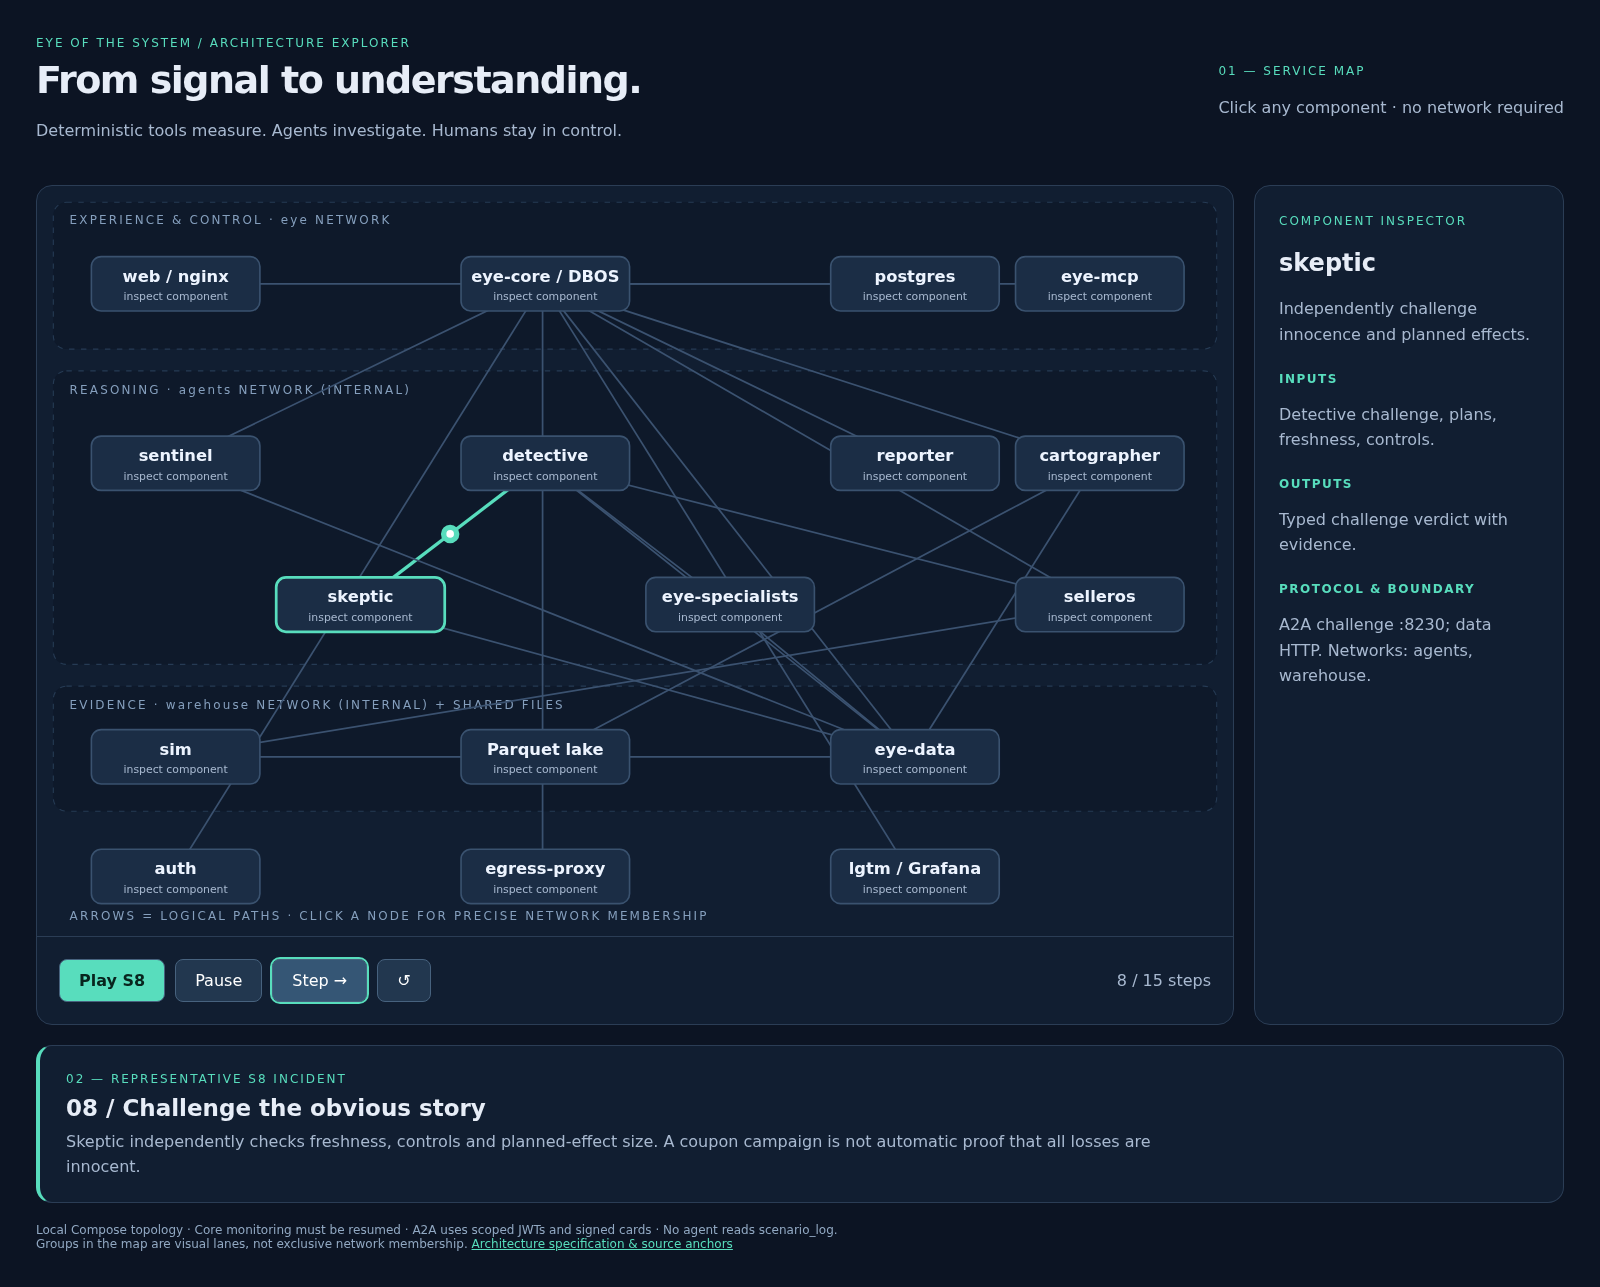
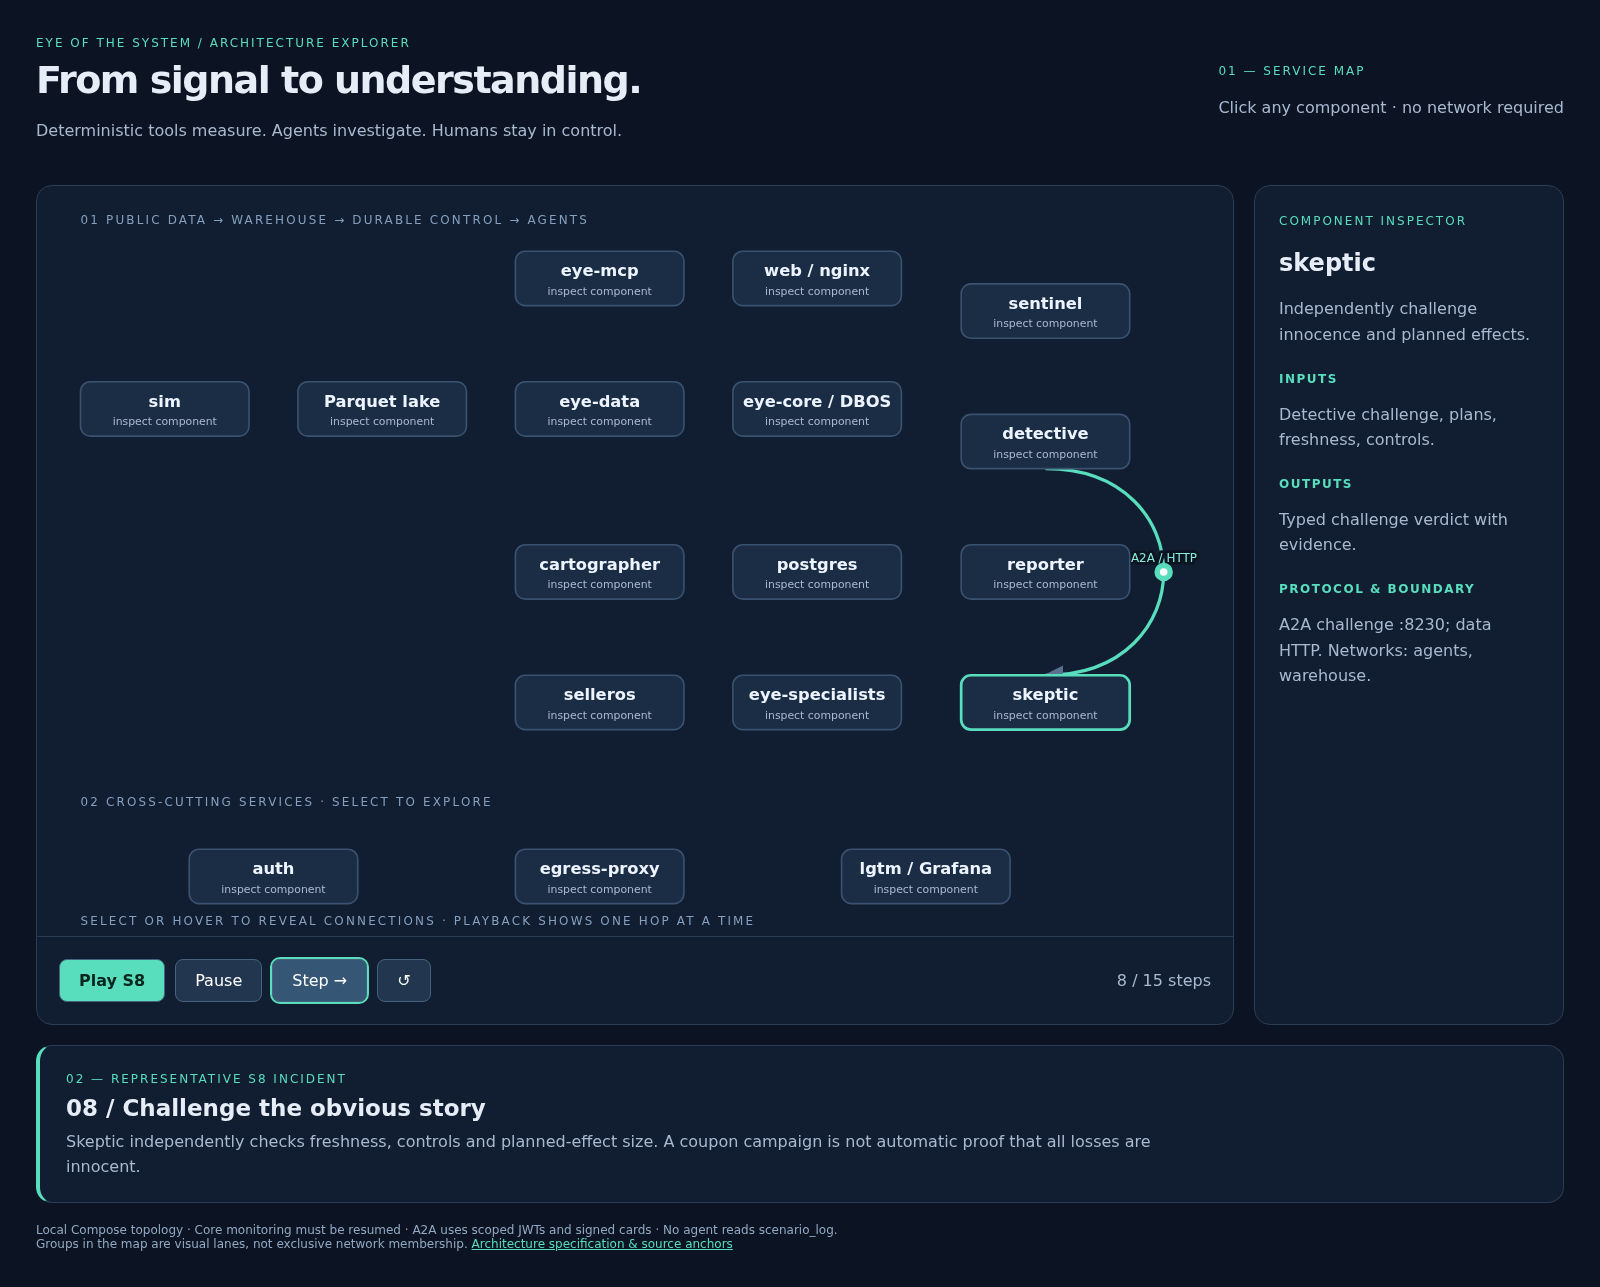
TASK-69: Reveal service connections on demand in layered walkthrough

diff --git a/docs/architecture/walkthrough.html b/docs/architecture/walkthrough.html
@@ -5,6 +5,7 @@
 <title>Eye — Architecture in motion</title>
 <style>
 :root{color-scheme:dark;font-family:Inter,system-ui,sans-serif;background:#0c1423;color:#e7edf7}*{box-sizing:border-box}body{margin:0;padding:36px;max-width:1700px;margin-inline:auto}header{display:flex;justify-content:space-between;align-items:center}h1{font-size:38px;letter-spacing:-1.5px;margin:8px 0}p{color:#a8b9d0;line-height:1.6}small,.eyebrow{color:#58ddbd;letter-spacing:2px;text-transform:uppercase;font-size:12px}main{display:grid;grid-template-columns:minmax(0,1fr) 310px;gap:20px;margin-top:25px}.panel{background:#111e31;border:1px solid #2b3d55;border-radius:16px;overflow:hidden}svg{width:100%;display:block}aside{padding:24px}aside h2{font-size:24px}h3{font-size:12px;letter-spacing:1.5px;color:#58ddbd;text-transform:uppercase;margin:24px 0 5px}.controls{padding:22px;display:flex;align-items:center;gap:10px;border-top:1px solid #2b3d55}button{background:#22374f;color:#fff;border:1px solid #47627e;padding:11px 19px;border-radius:8px;cursor:pointer;font:inherit}button:hover,button:focus-visible{background:#355675;outline:2px solid #58ddbd}#play{background:#58ddbd;color:#08251e;font-weight:700}#counter{margin-left:auto;color:#a8b9d0}.story{grid-column:1/-1;padding:22px 26px;border-left:4px solid #58ddbd}.story h2{margin:8px 0;font-size:23px}.story p{margin:0;max-width:1100px}.node{cursor:pointer;outline:none}.node rect{fill:#1b2d45;stroke:#3a526f;stroke-width:1.5}.node:hover rect,.node:focus rect,.node.selected rect{stroke:#58ddbd;stroke-width:2.5}.node text{fill:#edf4ff;font-size:15px;font-weight:600;pointer-events:none}.node .sub{fill:#a8b9d0;font-size:10px;font-weight:400}.edge{fill:none;stroke:#3b5270;stroke-width:1.6}.edge.active{stroke:#58ddbd;stroke-width:3}.zone{fill:#0e192a;stroke:#263b54;stroke-dasharray:5 6}.zone-label{fill:#859fbd;font-size:11px;letter-spacing:2px}.packet{fill:#fff;stroke:#58ddbd;stroke-width:5}footer{font-size:12px;color:#91a8c2;margin-top:20px}a{color:#58ddbd}@media(max-width:1000px){body{padding:18px}main{grid-template-columns:1fr}aside{min-height:220px}h1{font-size:30px}header{display:block}}
+.edge-label{fill:#87ecd4;font-size:11px;paint-order:stroke;stroke:#0c1423;stroke-width:5px;stroke-linejoin:round}
 </style>
 <header><div><div class="eyebrow">Eye of the System / architecture explorer</div><h1>From signal to understanding.</h1><p>Deterministic tools measure. Agents investigate. Humans stay in control.</p></div><div><small>01 — Service map</small><p>Click any component · no network required</p></div></header>
 <main><section class="panel" aria-label="Interactive service map"><svg id="map" viewBox="0 0 1100 690" role="group" aria-label="Compose services and logical communication paths"><defs><marker id="arrow" viewBox="0 0 10 10" refX="9" refY="5" markerWidth="6" markerHeight="6" orient="auto-start-reverse"><path d="M0 0L10 5L0 10" fill="#58728f"/></marker></defs><rect class="zone" x="15" y="15" width="1070" height="135" rx="12"/><text class="zone-label" x="30" y="35">EXPERIENCE &amp; CONTROL · eye NETWORK</text><rect class="zone" x="15" y="170" width="1070" height="270" rx="12"/><text class="zone-label" x="30" y="191">REASONING · agents NETWORK (INTERNAL)</text><rect class="zone" x="15" y="460" width="1070" height="115" rx="12"/><text class="zone-label" x="30" y="481">EVIDENCE · warehouse NETWORK (INTERNAL) + SHARED FILES</text><g id="edges"></g><g id="nodes"></g><circle id="packet" class="packet" r="6" visibility="hidden"/><text class="zone-label" x="30" y="675">ARROWS = LOGICAL PATHS · CLICK A NODE FOR PRECISE NETWORK MEMBERSHIP</text></svg><div class="controls"><button id="play">Play S8</button><button id="pause">Pause</button><button id="step">Step →</button><button id="reset" aria-label="Reset walkthrough">↺</button><span id="counter">Ready / 15 steps</span></div></section>
@@ -33,10 +34,19 @@ const nodes=[
 ['lgtm','lgtm / Grafana',730,610,'Loki logs, Grafana views, Tempo traces, Prometheus metrics.','OTLP telemetry from instrumented Python services.','Correlated observability; Grafana :3000.','OTLP HTTP :4318. Networks: eye, agents, warehouse.']
 ];
 const links=[['web','core'],['core','pg'],['mcp','core'],['core','sentinel'],['core','detective'],['core','reporter'],['core','cart'],['detective','skeptic'],['detective','experts'],['detective','seller'],['core','seller'],['sim','lake'],['lake','data'],['lake','cart'],['sentinel','data'],['detective','data'],['skeptic','data'],['experts','data'],['cart','data'],['core','data'],['seller','sim'],['core','auth'],['detective','proxy'],['core','lgtm']];
+const layout={sim:[40,180],lake:[240,180],data:[440,180],core:[640,180],sentinel:[850,90],detective:[850,210],reporter:[850,330],skeptic:[850,450],experts:[640,450],seller:[440,450],cart:[440,330],web:[640,60],mcp:[440,60],pg:[640,330],auth:[140,610],proxy:[440,610],lgtm:[740,610]};
+nodes.forEach(n=>{[n[2],n[3]]=layout[n[0]]});
 const NS='http://www.w3.org/2000/svg',byId=Object.fromEntries(nodes.map(n=>[n[0],n]));
+document.querySelectorAll('.zone,.zone-label').forEach(e=>e.remove());
+const svg=document.querySelector('#map');
+el('text',{x:40,y:35,class:'zone-label'},svg).textContent='01  PUBLIC DATA → WAREHOUSE → DURABLE CONTROL → AGENTS';
+el('text',{x:40,y:570,class:'zone-label'},svg).textContent='02  CROSS-CUTTING SERVICES · SELECT TO EXPLORE';
+el('text',{x:40,y:680,class:'zone-label'},svg).textContent='SELECT OR HOVER TO REVEAL CONNECTIONS · PLAYBACK SHOWS ONE HOP AT A TIME';
 function el(tag,attrs,parent){const e=document.createElementNS(NS,tag);Object.entries(attrs).forEach(([k,v])=>e.setAttribute(k,v));parent.append(e);return e}
-links.forEach(([a,b])=>{const n=byId[a],m=byId[b];el('path',{id:a+'-'+b,d:`M${n[2]+75} ${n[3]+25} L${m[2]+75} ${m[3]+25}`,class:'edge','marker-end':'url(#arrow)'},document.querySelector('#edges'))});
-function select(id){const n=byId[id];document.querySelectorAll('.node').forEach(e=>e.classList.toggle('selected',e.id==='node-'+id));['name','role','inputs','outputs','protocol'].forEach((k,i)=>document.getElementById(k).textContent=n[[1,4,5,6,7][i]])}
+function protocol(a,b){if(a==='lake')return b==='data'?'Parquet / DuckDB':'DuckDB snapshot';if(a==='sim')return 'Parquet files';if(a==='seller'&&b==='sim')return 'shared files';if(b==='pg')return 'PostgreSQL';if(b==='auth')return 'HTTP / OAuth';if(b==='lgtm')return 'OTLP HTTP';if(b==='proxy')return 'HTTP CONNECT';if(a==='web'||a==='mcp'||b==='data'||a==='core'&&b==='seller')return 'HTTP';return 'A2A / HTTP'}
+links.forEach(([a,b])=>{const n=byId[a],m=byId[b],dx=m[2]-n[2],dy=m[3]-n[3];let x=n[2]+77.5,y=n[3]+25,X=m[2]+77.5,Y=m[3]+25;if(Math.abs(dx)>Math.abs(dy)){x+=Math.sign(dx)*77.5;X-=Math.sign(dx)*77.5}else{y+=Math.sign(dy)*25;Y-=Math.sign(dy)*25}const g=el('g',{'data-a':a,'data-b':b,class:'connection'},document.querySelector('#edges'));el('path',{id:a+'-'+b,d:dx===0&&Math.abs(dy)>120?`M${x} ${y} C${x+145} ${y},${X+145} ${Y},${X} ${Y}`:`M${x} ${y} C${x+(X-x)/2} ${y},${x+(X-x)/2} ${Y},${X} ${Y}`,class:'edge','marker-end':'url(#arrow)'},g);el('text',{x:(x+X)/2+(dx===0&&Math.abs(dy)>120?109:0),y:(y+Y)/2-9,'text-anchor':'middle',class:'edge-label'},g).textContent=protocol(a,b)});
+function reveal(id){document.querySelectorAll('.connection').forEach(e=>e.style.display=index<0&&(e.dataset.a===id||e.dataset.b===id)?'':'none')}
+function select(id){const n=byId[id];document.querySelectorAll('.node').forEach(e=>e.classList.toggle('selected',e.id==='node-'+id));['name','role','inputs','outputs','protocol'].forEach((k,i)=>document.getElementById(k).textContent=n[[1,4,5,6,7][i]]);reveal(id)}
 nodes.forEach(n=>{const g=el('g',{id:'node-'+n[0],class:'node',tabindex:'0',role:'button','aria-label':n[1]},document.querySelector('#nodes'));el('rect',{x:n[2],y:n[3],width:155,height:50,rx:9},g);el('text',{x:n[2]+77.5,y:n[3]+23,'text-anchor':'middle'},g).textContent=n[1];el('text',{x:n[2]+77.5,y:n[3]+40,'text-anchor':'middle',class:'sub'},g).textContent='inspect component';g.addEventListener('click',()=>select(n[0]));g.addEventListener('keydown',e=>{if(e.key==='Enter'||e.key===' '){e.preventDefault();select(n[0])}})});
 const steps=[
 ['sim','lake','01 / Publish the world','S8 combines a planned electronics coupon with a delayed seller price typo. sim publishes facts, then the manifest; its intentionally partial first hour is repaired on a later tick.'],
@@ -58,7 +68,7 @@ const steps=[
 let index=-1,playing=false,frame=null,progress=0,last=null,path=null,reverse=false;
 const packet=document.querySelector('#packet');
 function pause(){playing=false;last=null;cancelAnimationFrame(frame);document.querySelector('#play').textContent='Play S8'}
-function show(i){index=i;progress=0;document.querySelectorAll('.edge').forEach(e=>e.classList.remove('active'));const [a,b,title,detail]=steps[i];path=document.getElementById(a+'-'+b);reverse=false;if(!path){path=document.getElementById(b+'-'+a);reverse=true}path.classList.add('active');select(b);document.querySelector('#caption').textContent=title;document.querySelector('#detail').textContent=detail;document.querySelector('#counter').textContent=`${i+1} / ${steps.length} steps`;document.querySelector('#phase').textContent='02 — Representative S8 incident';position(0)}
+function show(i){index=i;progress=0;document.querySelectorAll('.edge').forEach(e=>e.classList.remove('active'));const [a,b,title,detail]=steps[i];path=document.getElementById(a+'-'+b);reverse=false;if(!path){path=document.getElementById(b+'-'+a);reverse=true}path.classList.add('active');select(b);path.parentElement.style.display='';document.querySelector('#caption').textContent=title;document.querySelector('#detail').textContent=detail;document.querySelector('#counter').textContent=`${i+1} / ${steps.length} steps`;document.querySelector('#phase').textContent='02 — Representative S8 incident';position(0)}
 function position(t){const p=path.getPointAtLength(path.getTotalLength()*(reverse?1-t:t));packet.setAttribute('cx',p.x);packet.setAttribute('cy',p.y);packet.setAttribute('visibility','visible')}
 function tick(time){if(!playing)return;if(last!==null)progress+=time-last;last=time;position(Math.min(progress/2000,1));if(progress>=3200){if(index===steps.length-1){pause();return}show(index+1)}frame=requestAnimationFrame(tick)}
 document.querySelector('#play').onclick=()=>{if(playing)return;if(index<0||index===steps.length-1&&progress>=3200)show(0);playing=true;last=null;document.querySelector('#play').textContent='Playing…';frame=requestAnimationFrame(tick)};
@@ -66,5 +76,7 @@ document.querySelector('#pause').onclick=pause;
 document.querySelector('#step').onclick=()=>{pause();show((index+1)%steps.length);position(.5)};
 document.querySelector('#reset').onclick=()=>{pause();index=-1;progress=0;document.querySelectorAll('.edge').forEach(e=>e.classList.remove('active'));packet.setAttribute('visibility','hidden');document.querySelector('#counter').textContent='Ready / 15 steps';document.querySelector('#caption').textContent='A coupon day. A price typo. One connected investigation.';document.querySelector('#detail').textContent='Press Play or Step to follow a representative successful S8 run. Delegation is model-selected, not a guaranteed itinerary.';select('core')};
 select('core');
+document.querySelectorAll('.connection').forEach(e=>e.style.display='none');
+document.querySelectorAll('.node').forEach(e=>{e.addEventListener('mouseenter',()=>{if(index<0)select(e.id.slice(5))});e.addEventListener('focus',()=>{if(index<0)select(e.id.slice(5))})});
 </script>
 </html>
